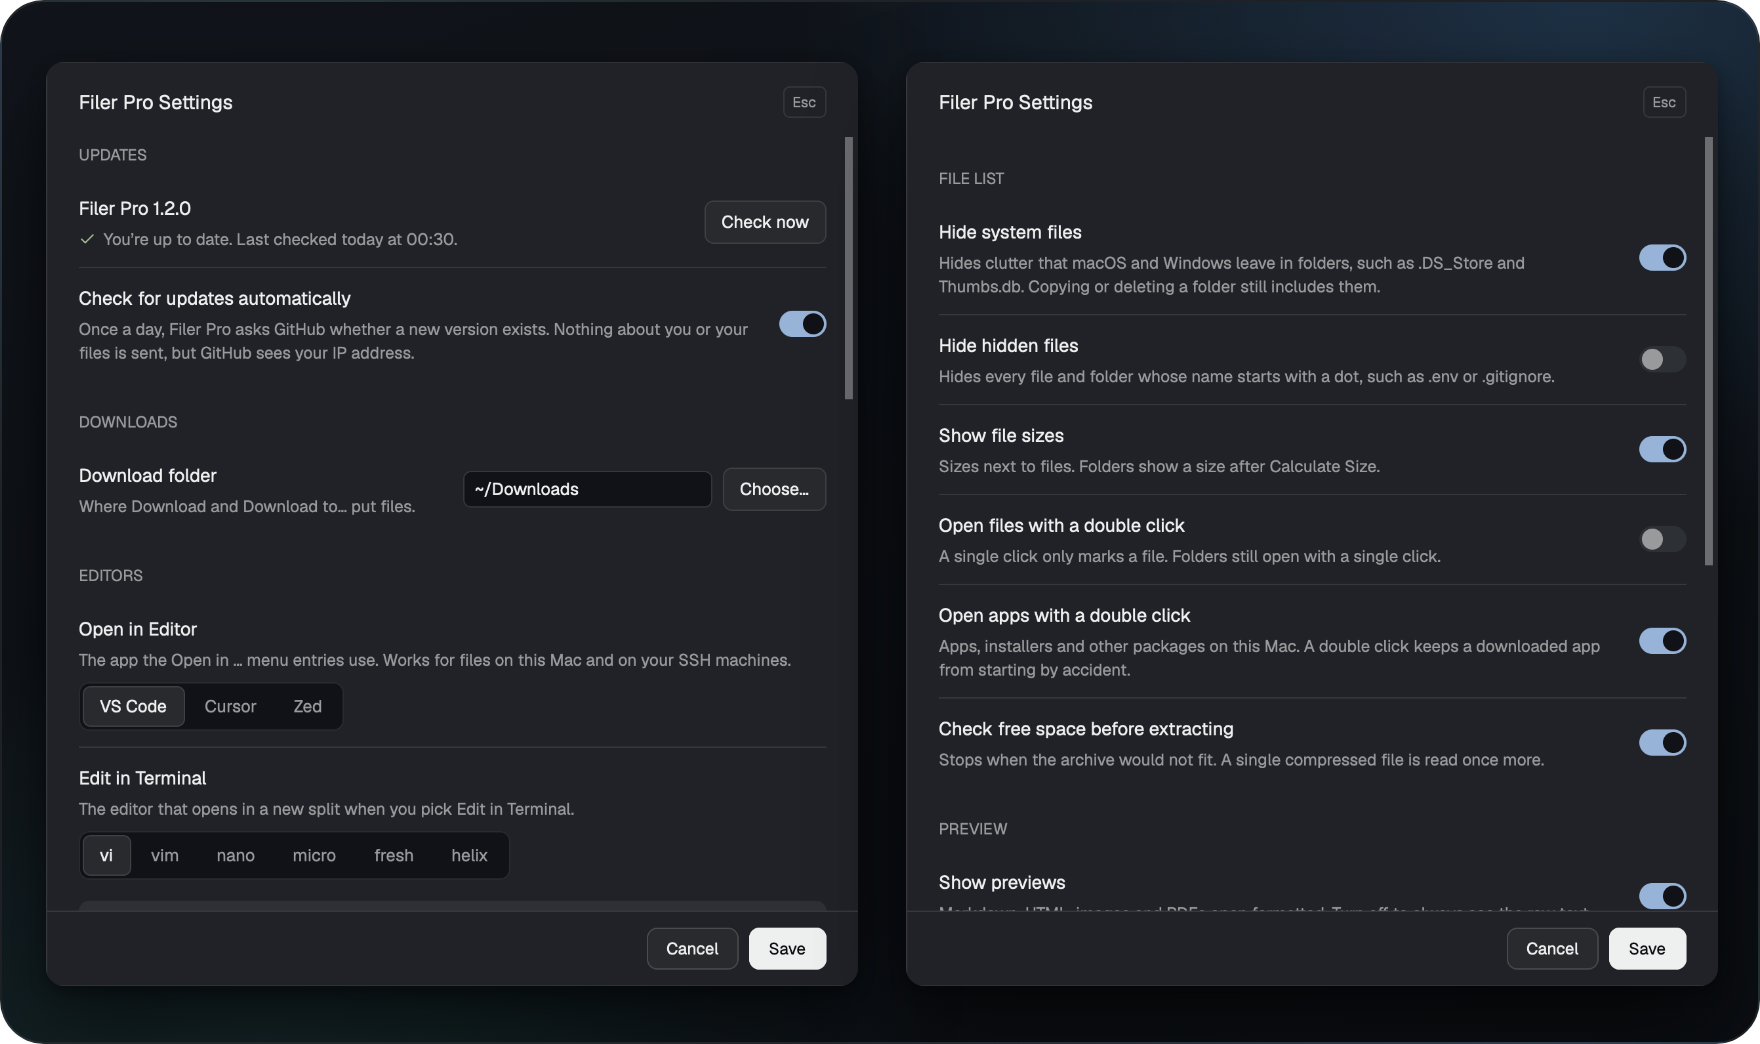
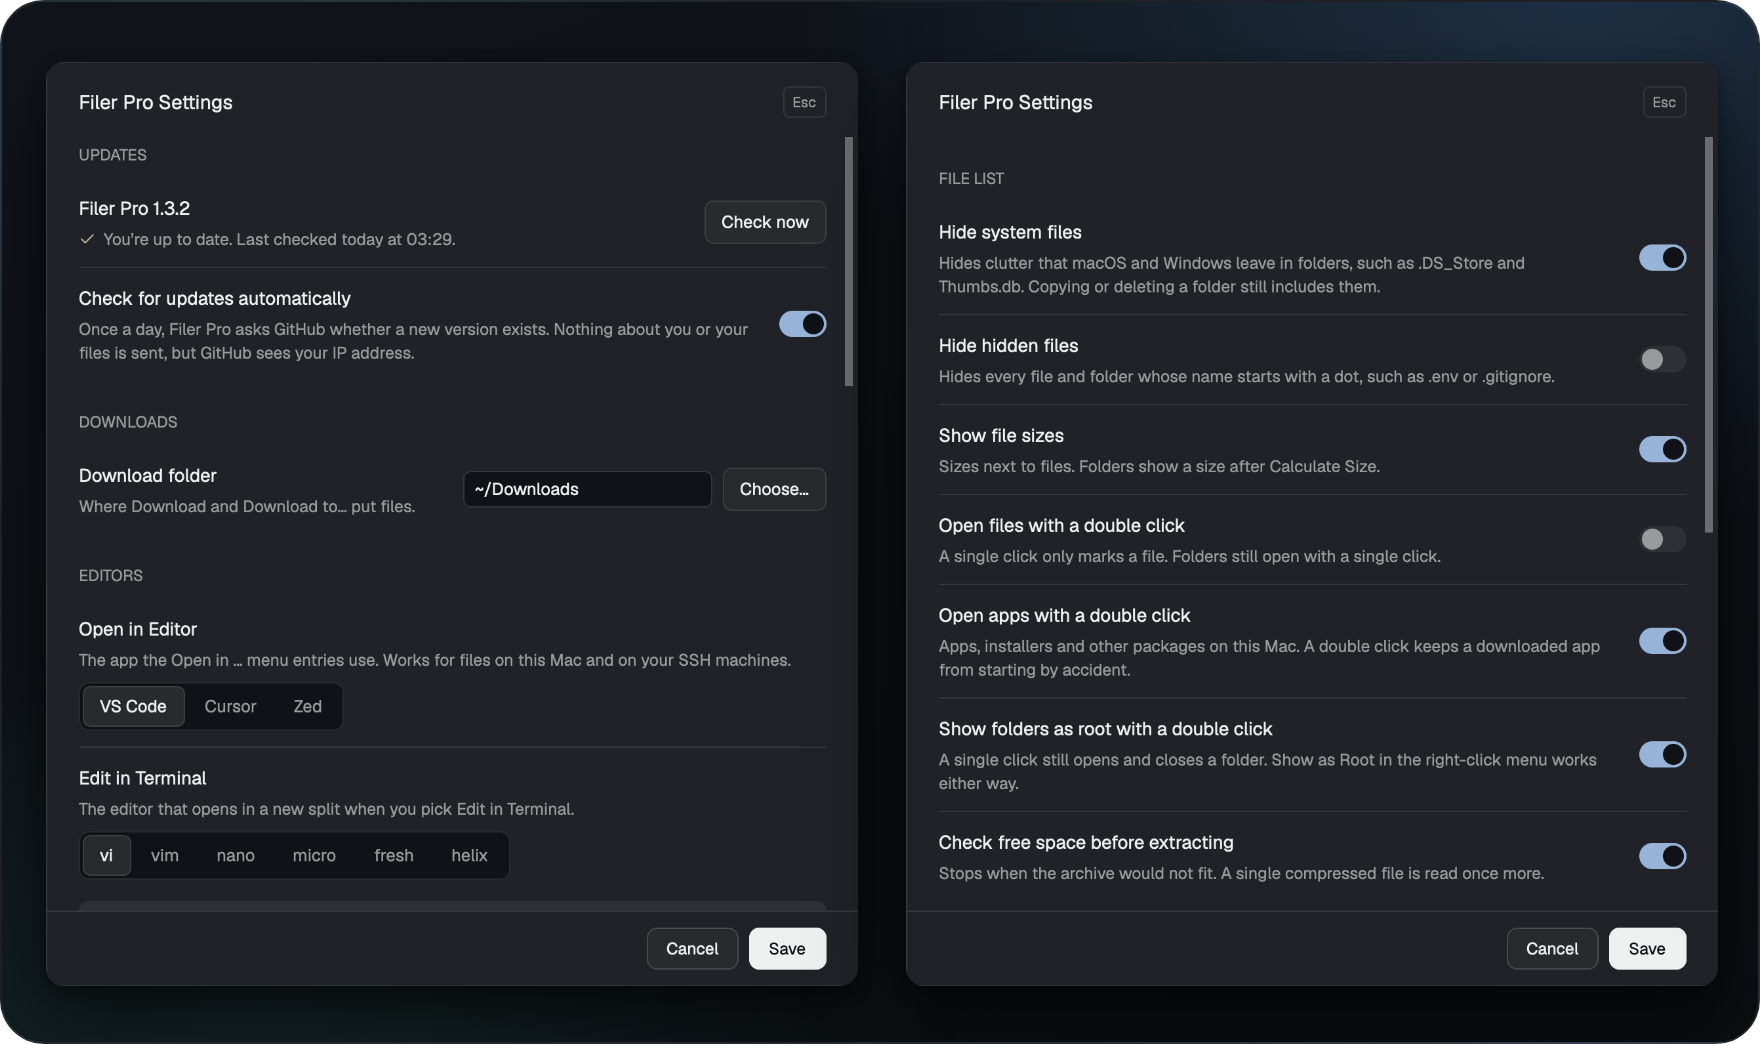
docs: add the Show as Root image and reshoot the settings image (#90)

Changed region(s): [[0.5312, 0.6743, 0.9688, 0.8582], [0.9062, 0.7969, 0.9688, 0.8889]]

diff --git a/scripts/screenshots/cards/show-as-root.html b/scripts/screenshots/cards/show-as-root.html
@@ -1,0 +1,14 @@
+<!DOCTYPE html>
+<html lang="en"><head><meta charset="utf-8"><title>Show as Root card</title>
+<link rel="stylesheet" href="card.css">
+<style>
+/* layout: tree panel centred left (docs open), the row menu of a folder with Show as Root hovered, beside it */
+html, body { width: 880px; height: 640px; }
+.tree { left: 120px; top: 30px; width: 446px; height: 580px; }
+.shot.cut.tree { border-color: #363a3f; }
+.menu { left: 580px; top: 100px; width: 200px; border-radius: 9px; }
+</style></head>
+<body><div class="frame">
+  <div class="shot cut tree"><img src="root-tree.png" alt=""></div>
+  <div class="shot menu"><img src="root-menu.png" alt=""></div>
+</div></body></html>

diff --git a/scripts/screenshots/README.md b/scripts/screenshots/README.md
@@ -8,7 +8,7 @@ The README images in `screenshots/` are cards: crops of a running Herdr window, 
 scripts/screenshots/shoot.sh
 ```
 
-`scripts/screenshots/shoot.sh browse extract` shoots only the named cards (preview, formats, browse, editors, extract, edit-terminal, pdf-fullscreen, settings); `CROP_ONLY=1` re-crops and renders from the raw shots in `tmp/shots-raw` without launching anything.
+`scripts/screenshots/shoot.sh browse extract` shoots only the named cards (preview, formats, browse, editors, extract, edit-terminal, pdf-fullscreen, settings, show-as-root); `CROP_ONLY=1` re-crops and renders from the raw shots in `tmp/shots-raw` without launching anything.
 
 It prepares a separate Herdr instance, launches it once, sets every state without mouse or keyboard, takes the shots, quits the instance, crops them and renders all cards into `screenshots/`. Needs macOS, Herdr.app, Microsoft Edge (headless, no window), `node`, `zip` and `sips`. Look at every image before you commit it: no user name, no path outside `~/acme-app`.
 
